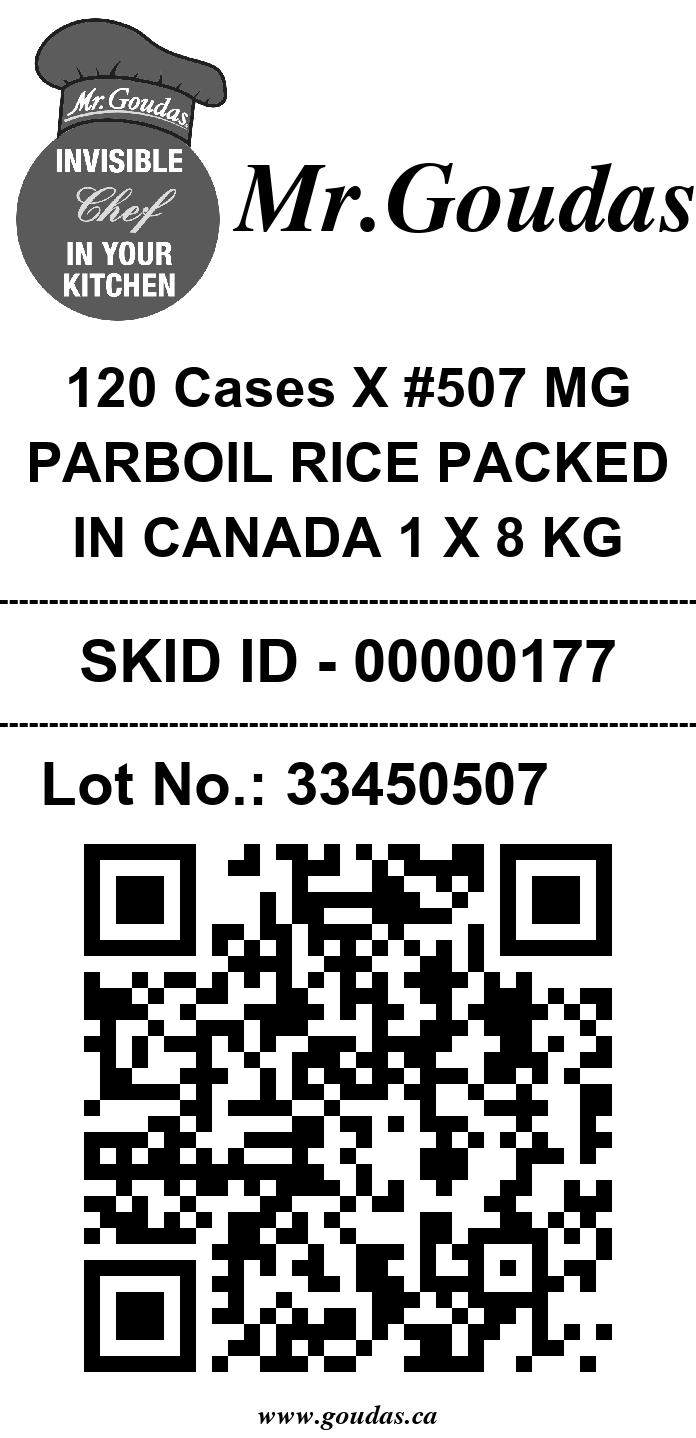
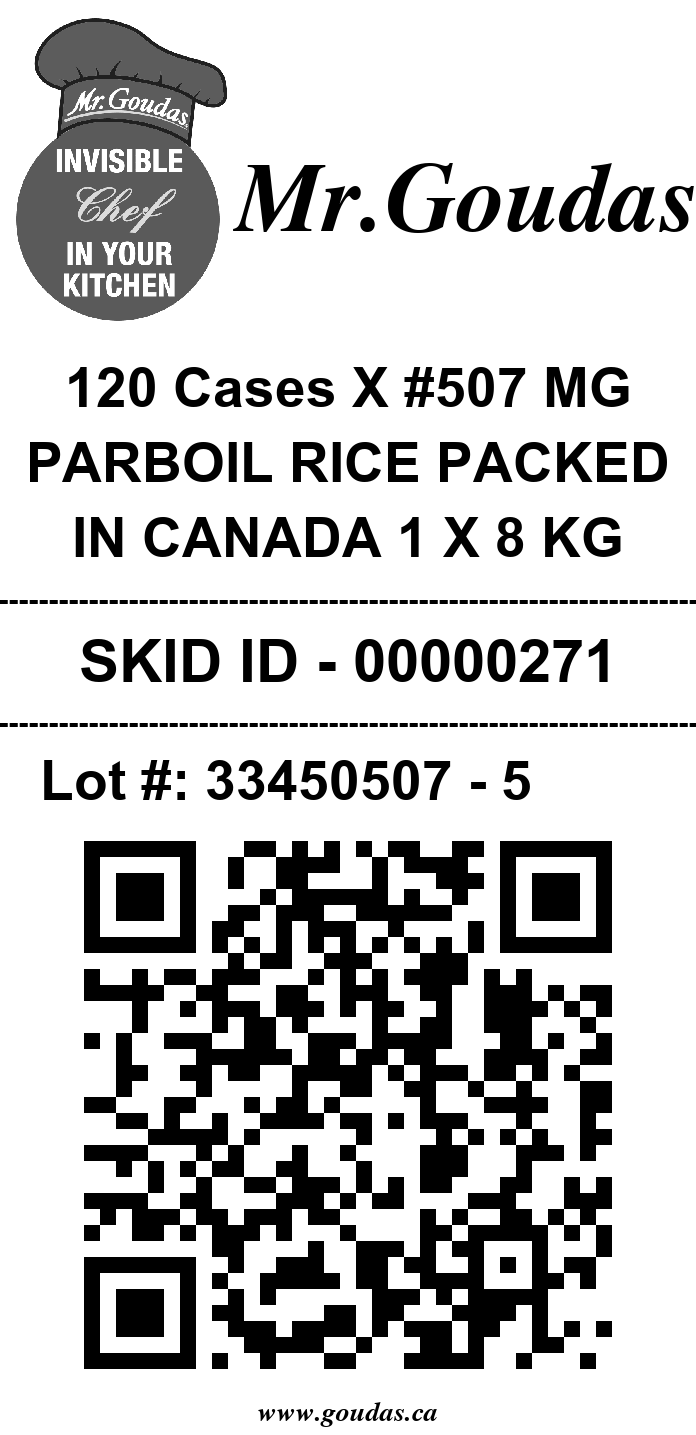
sadshdbhwbdh

diff --git a/LabelCreate.py b/LabelCreate.py
@@ -108,12 +108,14 @@ def generateSkidLabel(data, logoPath='logoBW.png', width=696, verticalMargin=35,
     casePerSkid = data['printedStickers'][-1]['casesInSkid'] if len(data['printedStickers'])>0 and 'casesInSkid' in data['printedStickers'][-1] else data['casePerSkid']
     # Define text, positions, and alignments
 
+    lotSkidSerial= (data['lotSkidSerialStart'] if 'lotSkidSerialStart' in data else 0)+len(data['printedStickers'])
+
     texts = [
         {"text":str(casePerSkid)+' Cases X #'+data['item']+ ' '+data['itemLabel'].upper(), "x": width // 2, "width": width * 0.98, "align": "center", "fontSize": 55, "isBold": True},
         {"text":' ' +'--------------------'*6+' ', "x": width // 2, "width": width * 0.95, "align": "center", "fontSize": 30, "isBold": True},        
         {"text": 'SKID ID - ' + data['printedStickers'][-1]['skidID'], "x": width // 2, "width": width * 0.95, "align": "center", "fontSize": 60, "isBold": True},
         {"text":' ' +'--------------------'*6+' ', "x": width // 2, "width": width * 0.95, "align": "center", "fontSize": 30, "isBold": True},
-        {"text": "Lot No.: " + data['lotNumber'], "x": 40, "width": width * 0.95, "align": "left", "fontSize": 60, "isBold": True},           
+        {"text": "Lot #: " + data['lotNumber']+' - '+str(lotSkidSerial), "x": 40, "width": width * 0.95, "align": "left", "fontSize": 55, "isBold": True},           
     ]
 
     # Generate QR code
